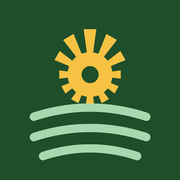
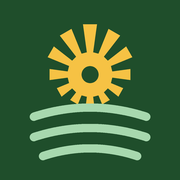
Extend rays down the sides and reach them out further

diff --git a/index.html b/index.html
@@ -157,7 +157,7 @@
   <div class="title-row">
     <div class="title-icon">
       <svg viewBox="0 0 64 64" width="40" height="40" aria-hidden="true">
-        <path fill="#ef9f0a" d="M42.90 24.51 L42.90 27.49 L39.93 27.09 L39.41 29.02 L42.18 30.16 L40.69 32.74 L38.32 30.90 L36.90 32.32 L38.74 34.69 L36.16 36.18 L35.02 33.41 L33.09 33.93 L33.49 36.90 L30.51 36.90 L30.91 33.93 L28.98 33.41 L27.84 36.18 L25.26 34.69 L27.10 32.32 L25.68 30.90 L23.31 32.74 L21.82 30.16 L24.59 29.02 L24.07 27.09 L21.10 27.49 L21.10 24.51 L24.07 24.91 L24.59 22.98 L19.39 20.85 L21.23 17.65 L25.68 21.10 L27.10 19.68 L22.47 13.72 L26.13 11.61 L28.98 18.59 L30.91 18.07 L29.79 9.90 L34.21 9.90 L33.09 18.07 L35.02 18.59 L37.87 11.61 L41.53 13.72 L36.90 19.68 L38.32 21.10 L42.77 17.65 L44.61 20.85 L39.41 22.98 L39.93 24.91 Z"/>
+        <path fill="#ef9f0a" d="M46.37 24.03 L46.37 27.97 L39.93 27.09 L39.41 29.02 L43.80 30.82 L42.07 33.81 L38.32 30.90 L36.90 32.32 L39.03 35.06 L36.33 36.62 L35.02 33.41 L33.09 33.93 L33.49 36.90 L30.51 36.90 L30.91 33.93 L28.98 33.41 L27.67 36.62 L24.97 35.06 L27.10 32.32 L25.68 30.90 L21.93 33.81 L20.20 30.82 L24.59 29.02 L24.07 27.09 L17.63 27.97 L17.63 24.03 L24.07 24.91 L24.59 22.98 L16.95 19.86 L19.16 16.04 L25.68 21.10 L27.10 19.68 L21.26 12.15 L25.38 9.77 L28.98 18.59 L30.91 18.07 L29.56 8.17 L34.44 8.17 L33.09 18.07 L35.02 18.59 L38.62 9.77 L42.74 12.15 L36.90 19.68 L38.32 21.10 L44.84 16.04 L47.05 19.86 L39.41 22.98 L39.93 24.91 Z"/>
         <circle cx="32" cy="26" r="3.1" fill="#fff"/>
         <g stroke="#2e6f3e" stroke-width="3.4" stroke-linecap="round" fill="none">
           <path d="M9 44 q23 -7 46 0"/>

diff --git a/build_icons.py b/build_icons.py
@@ -58,14 +58,14 @@ def gear_pts(c, r_root, r_tip, extra, n=12, tip_frac=0.52):
     pts = []
     for k in range(n):
         th = k * pitch
-        rt = r_tip + extra * max(0.0, -math.sin(th))   # upper teeth stretch into rays
+        rt = r_tip + extra * (1 - math.sin(th)) / 2   # rays fade from top down past the sides
         for r, a in [(rt, th - th_half), (rt, th + th_half),
                      (r_root, th + th_half), (r_root, th + pitch - th_half)]:
             pts.append(P(c[0] + r * math.cos(a), c[1] + r * math.sin(a)))
     return pts
 
 
-d.polygon(gear_pts(SUN_C, 64, 88, 42), fill=AMBER)
+d.polygon(gear_pts(SUN_C, 64, 88, 56), fill=AMBER)
 bx, by = P(*SUN_C)
 br = 24 * sc
 d.ellipse([bx - br, by - br, bx + br, by + br], fill=BG)